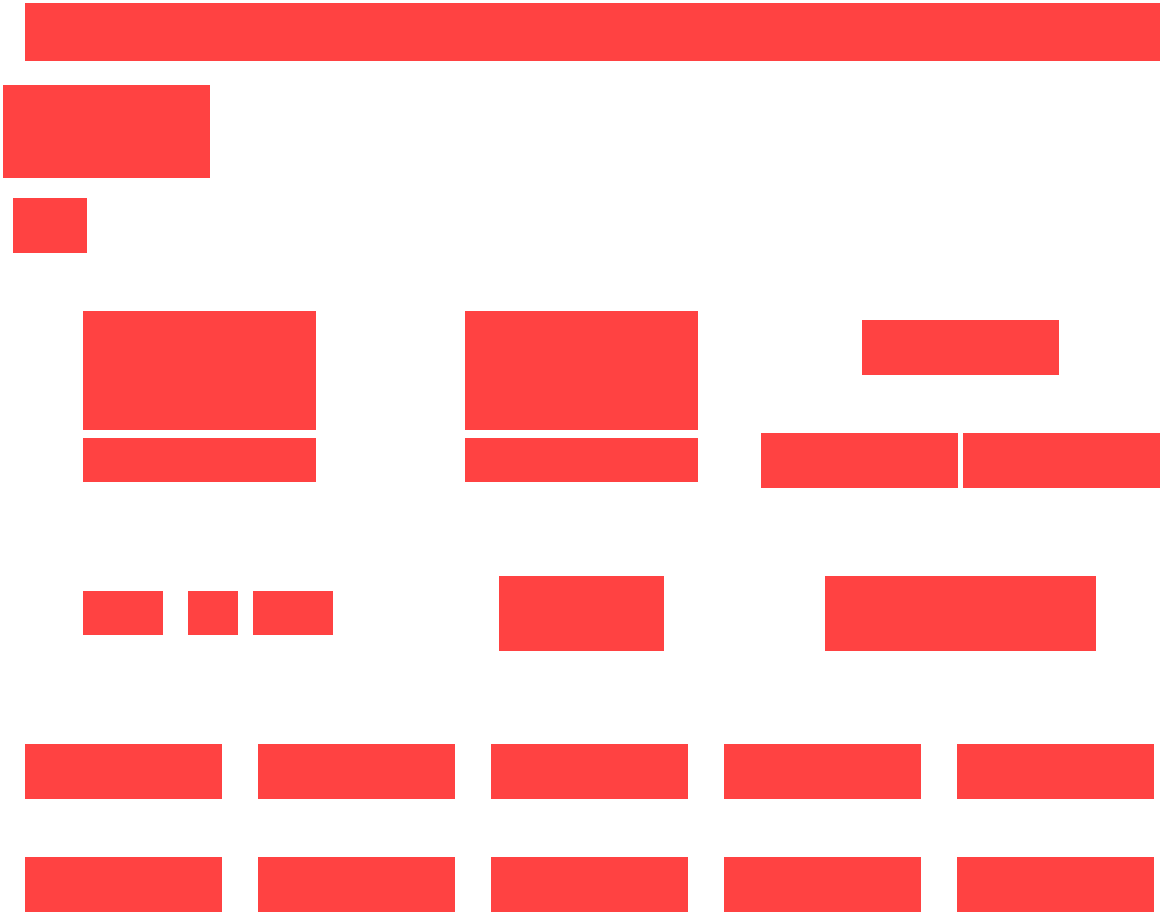
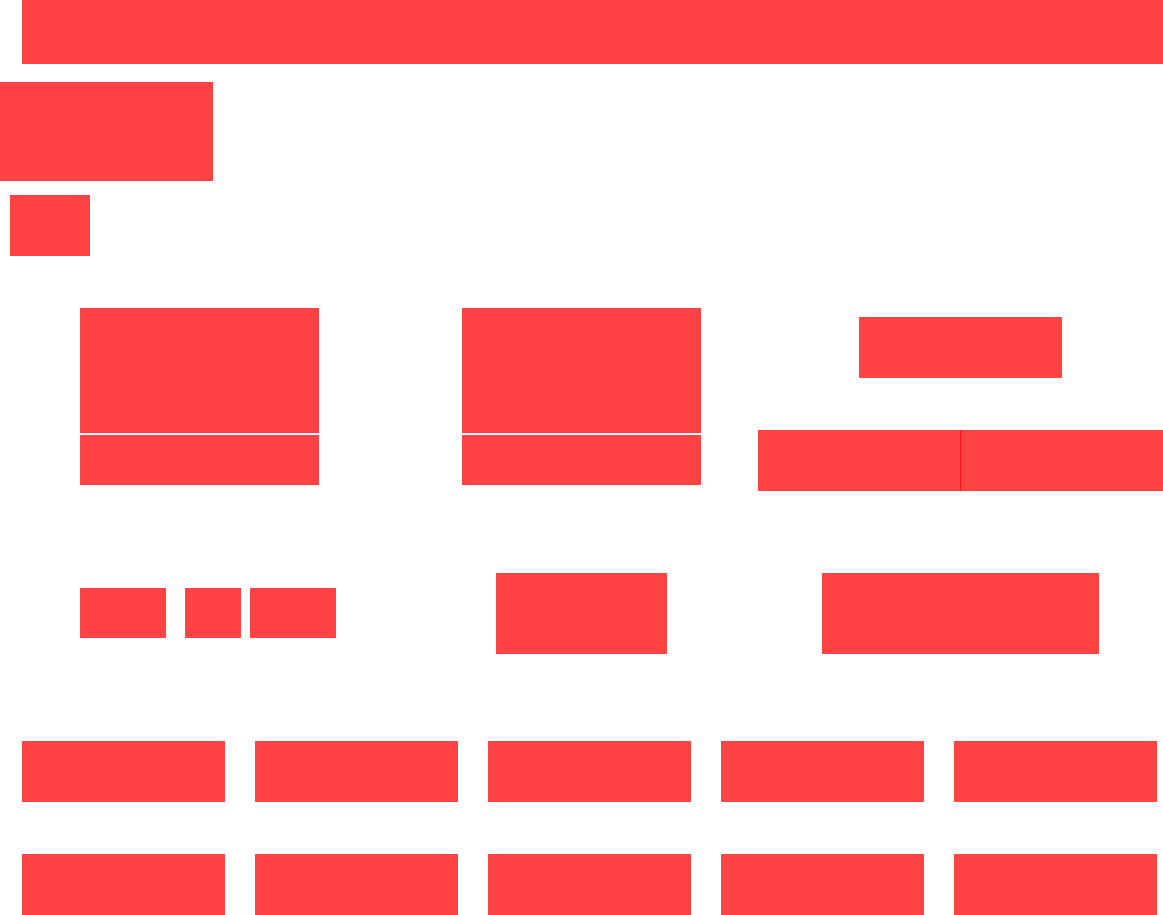
新しいmask.pngに対応してOCR領域を更新
- mask.pngの置き換えに対応
- 新しいマスクから抽出した座標に更新
- 通常/チャンス中の座標を修正

diff --git a/web_app/test_detail_ocr_app.py b/web_app/test_detail_ocr_app.py
@@ -37,18 +37,18 @@ EXPECTED_DATA = {
 # mask.pngから抽出したOCR領域（黒背景左上を基準とした相対座標）
 # オフセット: X=0, Y=-190でピッタリ合う
 OCR_REGIONS_FROM_MASK = {
-    'big_hit_count': {'x': 83, 'y': 121, 'w': 233, 'h': 119, 'color': 'red'},  # 大当り回数 25
-    'first_hit_count': {'x': 465, 'y': 121, 'w': 233, 'h': 119, 'color': 'blue'},  # 初当り回数 4
-    'total_start': {'x': 862, 'y': 130, 'w': 197, 'h': 55, 'color': 'white'},  # 累計スタート 3721
-    'big_hit_rate': {'x': 83, 'y': 248, 'w': 233, 'h': 44, 'color': 'red'},  # (1/148)
-    'first_hit_rate': {'x': 465, 'y': 248, 'w': 233, 'h': 44, 'color': 'blue'},  # (1/469)
-    'normal': {'x': 811, 'y': 253, 'w': 80, 'h': 30, 'color': 'white'},  # 通常 1877
-    'chance': {'x': 901, 'y': 253, 'w': 80, 'h': 30, 'color': 'white'},  # チャンス中 1844
-    'ultra': {'x': 83, 'y': 401, 'w': 80, 'h': 44, 'color': 'red'},  # 超 21
-    'middle': {'x': 188, 'y': 401, 'w': 50, 'h': 44, 'color': 'red'},  # 中 0
-    'small': {'x': 253, 'y': 401, 'w': 80, 'h': 44, 'color': 'red'},  # 小 4
-    'start': {'x': 499, 'y': 386, 'w': 165, 'h': 75, 'color': 'white'},  # スタート 369
-    'max_payout': {'x': 825, 'y': 386, 'w': 271, 'h': 75, 'color': 'white'},  # 最高出玉 26830
+    'big_hit_count': {'x': 80, 'y': 118, 'w': 239, 'h': 125, 'color': 'red'},  # 大当り回数 25
+    'first_hit_count': {'x': 462, 'y': 118, 'w': 239, 'h': 125, 'color': 'blue'},  # 初当り回数 4
+    'total_start': {'x': 859, 'y': 127, 'w': 203, 'h': 61, 'color': 'white'},  # 累計スタート 3721
+    'big_hit_rate': {'x': 80, 'y': 245, 'w': 239, 'h': 50, 'color': 'red'},  # (1/148)
+    'first_hit_rate': {'x': 462, 'y': 245, 'w': 239, 'h': 50, 'color': 'blue'},  # (1/469)
+    'normal': {'x': 758, 'y': 240, 'w': 110, 'h': 50, 'color': 'white'},  # 通常 1877
+    'chance': {'x': 868, 'y': 240, 'w': 110, 'h': 50, 'color': 'white'},  # チャンス中 1844
+    'ultra': {'x': 80, 'y': 398, 'w': 86, 'h': 50, 'color': 'red'},  # 超 21
+    'middle': {'x': 185, 'y': 398, 'w': 56, 'h': 50, 'color': 'red'},  # 中 0
+    'small': {'x': 250, 'y': 398, 'w': 86, 'h': 50, 'color': 'red'},  # 小 4
+    'start': {'x': 496, 'y': 383, 'w': 171, 'h': 81, 'color': 'white'},  # スタート 369
+    'max_payout': {'x': 822, 'y': 383, 'w': 277, 'h': 81, 'color': 'white'},  # 最高出玉 26830
 }
 
 # デフォルトで相対座標を使用
